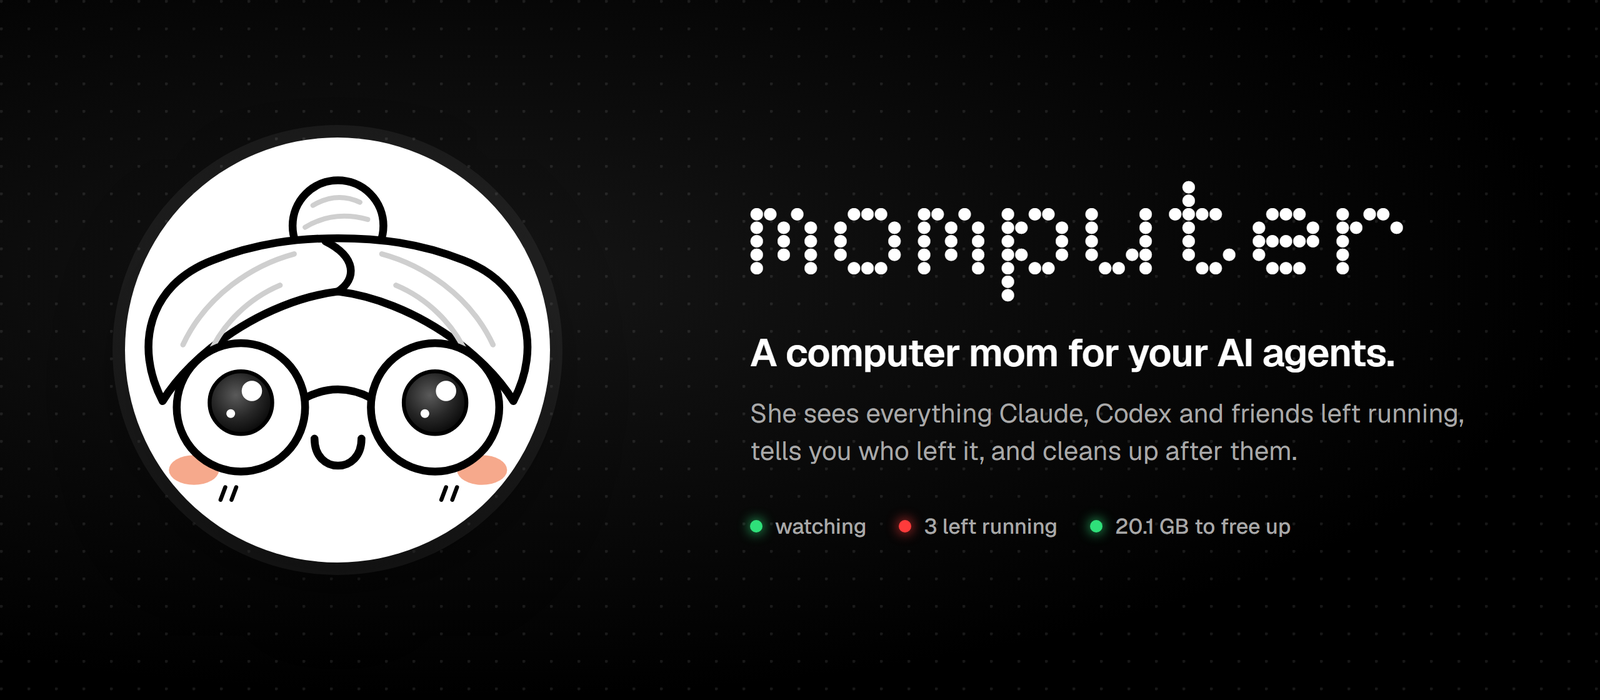
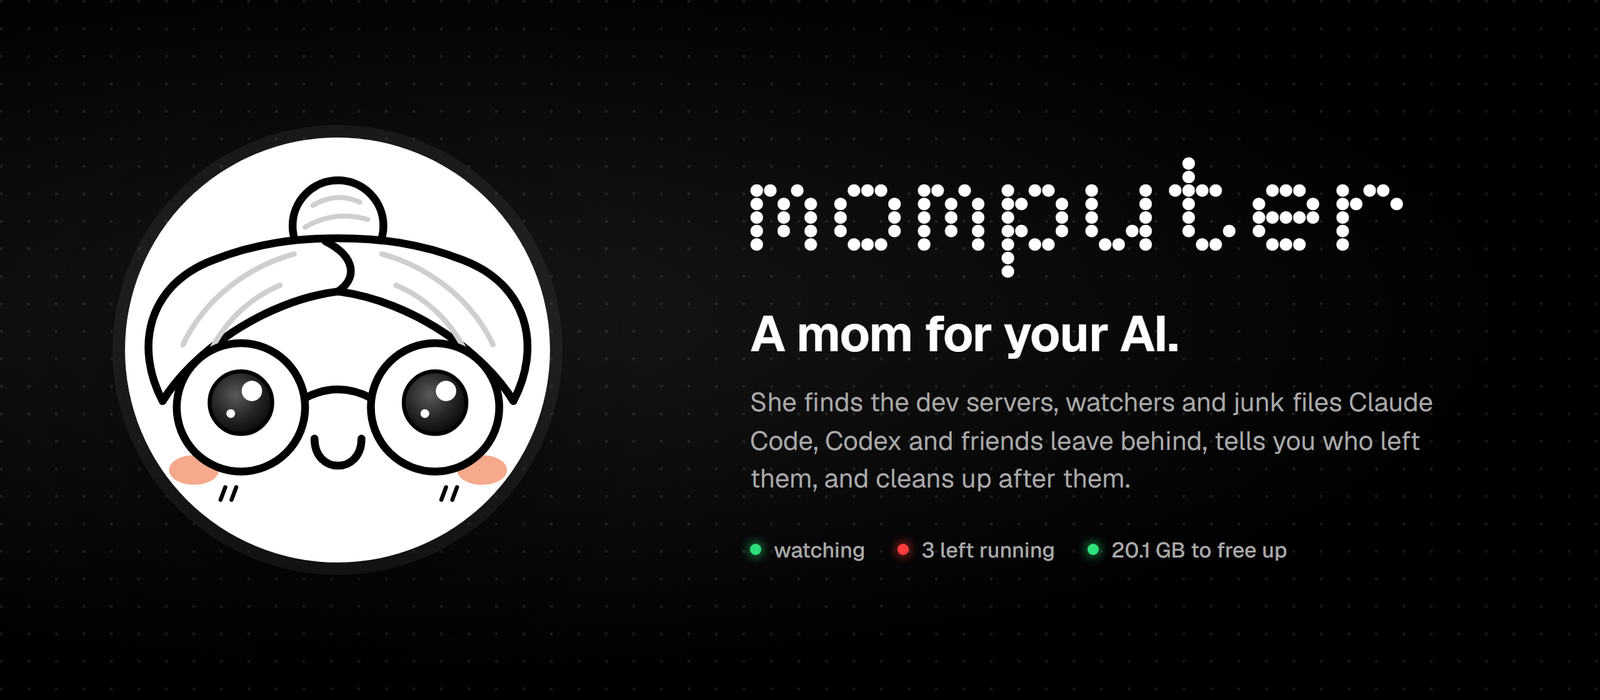
Tagline: a mom for your AI
New banner and social preview, and the same line in the app, CLI and
README, with a plain description under it for people searching.

Changed region(s): [[0.4688, 0.45, 0.9062, 0.81], [0.4688, 0.21, 0.875, 0.42]]

diff --git a/crates/mom-cli/src/main.rs b/crates/mom-cli/src/main.rs
@@ -13,7 +13,7 @@ use std::path::PathBuf;
 #[command(
     name = "mom",
     version,
-    about = "momputer: a computer mom for your AI agents.\nShows what they left running and cleans up after them.",
+    about = "momputer: a mom for your AI.\nShows what your AI agents left running and cleans up after them.",
     after_help = "Run `mom` with no arguments for a quick look."
 )]
 struct Cli {

diff --git a/app/src-tauri/src/main.rs b/app/src-tauri/src/main.rs
@@ -1,4 +1,4 @@
-// momputer: a computer mom for your AI agents.
+// momputer: a mom for your AI.
 #![cfg_attr(not(debug_assertions), windows_subsystem = "windows")]
 
 use mom_core::containers::{self, Machines};

diff --git a/README.md b/README.md
@@ -1,5 +1,5 @@
 <p align="center">
-  <img src="docs/hero.png" width="100%" alt="momputer: a cartoon granny with her hair in a bun and giant round glasses smiles from a round white screen next to the dot-matrix word momputer, with the line 'A computer mom for your AI agents' and three tiny status lights">
+  <img src="docs/hero.png" width="100%" alt="momputer: a cartoon granny with her hair in a bun and giant round glasses smiles from a round white screen next to the dot-matrix word momputer, with the line 'A mom for your AI' and three tiny status lights">
 </p>
 
 <p align="center">
@@ -11,7 +11,8 @@
   <a href="https://github.com/Thisisily/momputer/actions/workflows/ci.yml"><img src="https://img.shields.io/github/actions/workflow/status/Thisisily/momputer/ci.yml?branch=main&style=flat-square&label=build&labelColor=000&color=2fe07a" alt="Build status"></a>
 </p>
 
-<p align="center"><b>Your AI agents leave the stove on. Mom turns it off.</b></p>
+<p align="center"><b>Your AI agents leave the stove on. Mom turns it off.</b><br>
+<sub>A Windows tray widget for people who run Claude Code, Codex, Cursor, Gemini or Copilot: it finds leftover dev servers, watchers, headless browsers, old <code>node_modules</code> and caches, says which agent left them, and cleans them up.</sub></p>
 
 <p align="center">
   <img src="docs/showcase.png" width="100%" alt="Three views of the widget: the Running tab with programs Claude left behind, each with a red light and a Stop button; the details of Claude Code's scratch folders, listing what goes and what stays; and the Upkeep tab, with 15 GB mom can free up">
